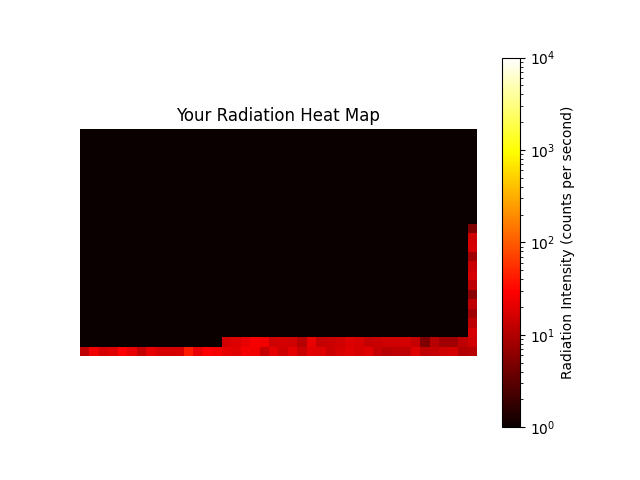
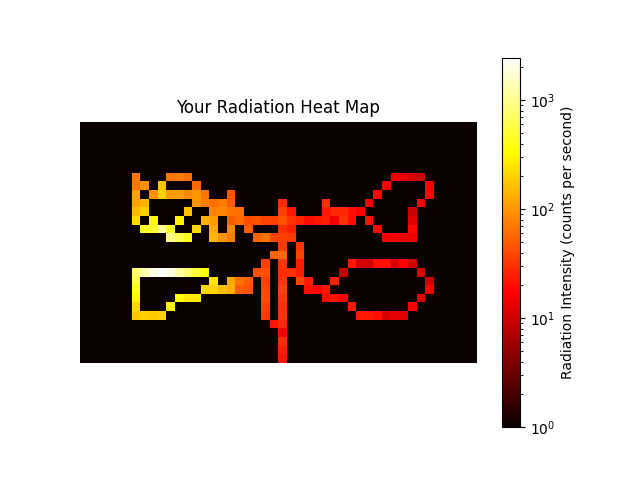
fixed teaching mode, and made times longer for outreach event

diff --git a/radmapperdev.py b/radmapperdev.py
@@ -152,8 +152,8 @@ def main(screen):
     FONT_COLOR = (255, 255, 255)
     FONT_SIZE = 24
     CELL_SIZE = GRID_SIZE
-    GROUND_MAPPING_TIME = 35
-    AERIAL_MAPPING_TIME = 20
+    GROUND_MAPPING_TIME = 45
+    AERIAL_MAPPING_TIME = 30
 
     # Load textures
     wall_image = pygame.image.load("textures/redbrick.png")
@@ -281,25 +281,20 @@ def main(screen):
 
     simple_walls = []
 
-    left_wall_x = GRID_WIDTH // 2 - 6
+    left_wall_x = GRID_WIDTH // 2 - 2
     left_wall_y = [i for i in range(GRID_HEIGHT // 2 - 1, GRID_HEIGHT // 2 + 2)]
     for i in left_wall_y:
         simple_walls.append((left_wall_x, i))
 
-    right_wall_x = GRID_WIDTH // 2 + 6
+    right_wall_x = GRID_WIDTH // 2 + 2
     right_wall_y = [i for i in range(GRID_HEIGHT // 2 - 1, GRID_HEIGHT // 2 + 2)]
     for i in right_wall_y:
         simple_walls.append((right_wall_x, i))
 
-    front_wall_y = GRID_HEIGHT//2 - 6
+    front_wall_y = GRID_HEIGHT//2 - 2
     front_wall_x = [i for i in range(GRID_WIDTH // 2 - 1 , GRID_WIDTH // 2 + 2)]
     for i in front_wall_x:
         simple_walls.append((i, front_wall_y))
-
-    back_wall_y = GRID_HEIGHT//2 + 6
-    back_wall_x = [i for i in range(GRID_WIDTH // 2 - 1, GRID_WIDTH // 2 + 2)]
-    for i in back_wall_x:
-        simple_walls.append((i, back_wall_y))
 
     game_over = False
     prev_state = 10

diff --git a/radmapper.py b/radmapper.py
@@ -281,25 +281,20 @@ def main(screen):
 
     simple_walls = []
 
-    left_wall_x = GRID_WIDTH // 2 - 6
+    left_wall_x = GRID_WIDTH // 2 - 2
     left_wall_y = [i for i in range(GRID_HEIGHT // 2 - 1, GRID_HEIGHT // 2 + 2)]
     for i in left_wall_y:
         simple_walls.append((left_wall_x, i))
 
-    right_wall_x = GRID_WIDTH // 2 + 6
+    right_wall_x = GRID_WIDTH // 2 + 2
     right_wall_y = [i for i in range(GRID_HEIGHT // 2 - 1, GRID_HEIGHT // 2 + 2)]
     for i in right_wall_y:
         simple_walls.append((right_wall_x, i))
 
-    front_wall_y = GRID_HEIGHT//2 - 6
+    front_wall_y = GRID_HEIGHT//2 - 2
     front_wall_x = [i for i in range(GRID_WIDTH // 2 - 1 , GRID_WIDTH // 2 + 2)]
     for i in front_wall_x:
         simple_walls.append((i, front_wall_y))
-
-    back_wall_y = GRID_HEIGHT//2 + 6
-    back_wall_x = [i for i in range(GRID_WIDTH // 2 - 1, GRID_WIDTH // 2 + 2)]
-    for i in back_wall_x:
-        simple_walls.append((i, back_wall_y))
 
     game_over = False
     prev_state = 10

diff --git a/setup.py b/setup.py
@@ -1,6 +1,7 @@
 from cx_Freeze import setup, Executable
 import sys
 
+base = None
 if sys.platform == "win32":
     base = "Win32GUI"
 
